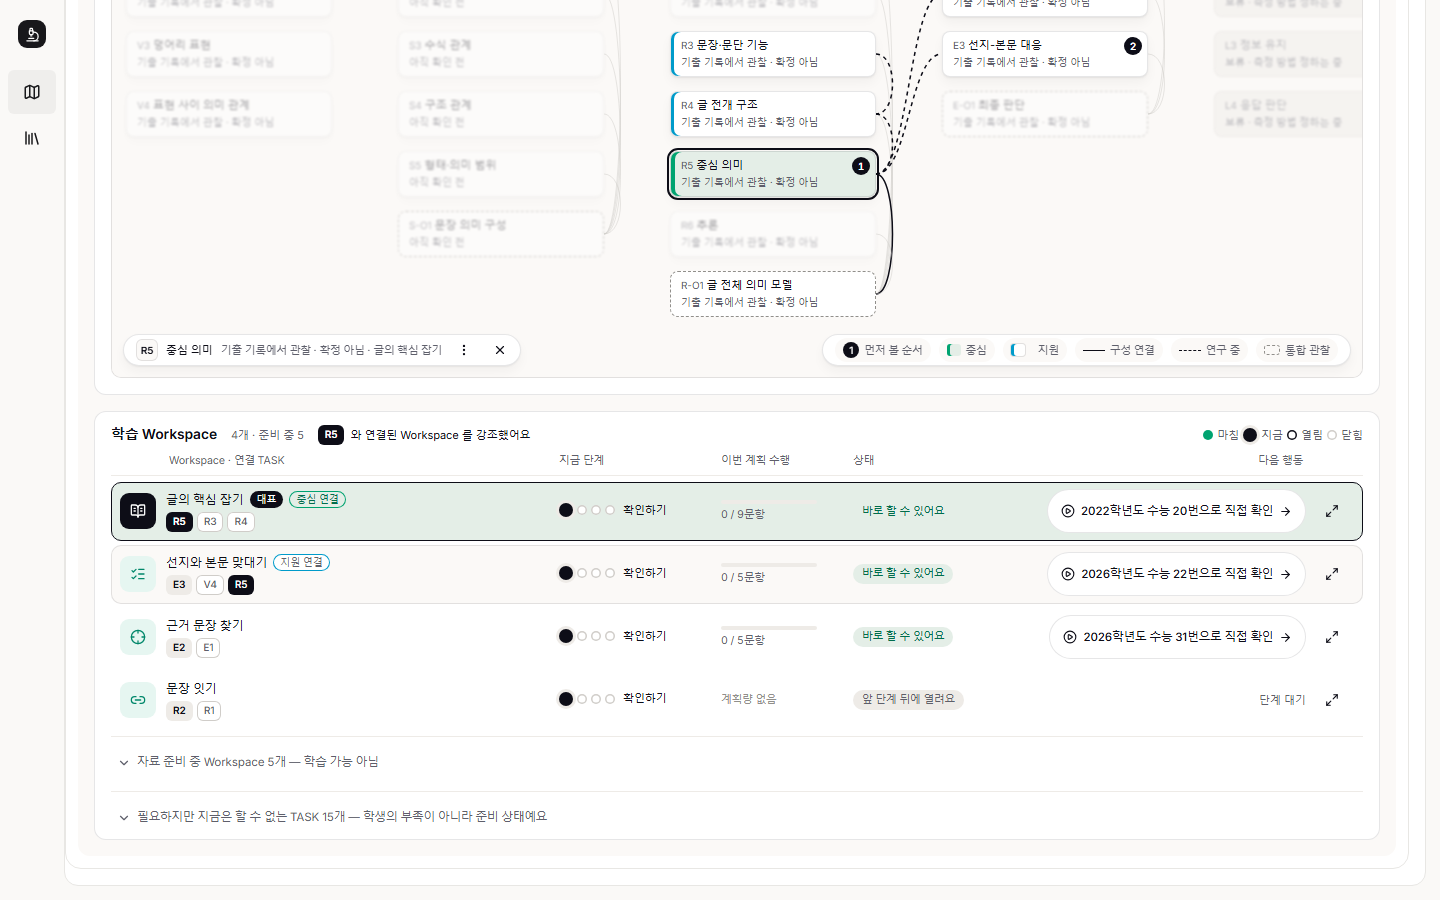
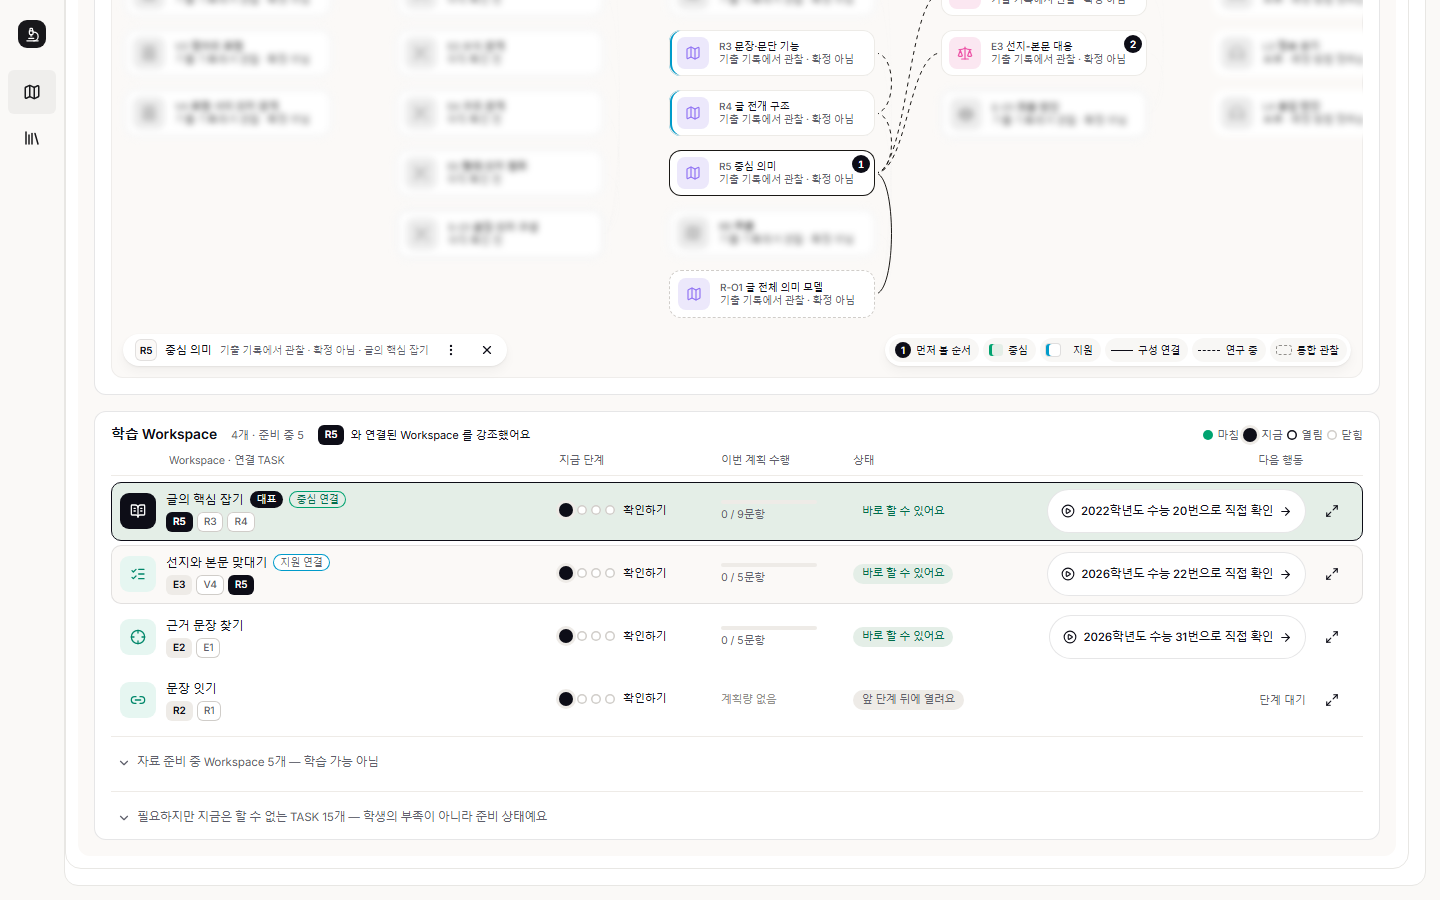
style(map): LM-W1 지도 스킨을 3B Access map 실측 계산 스타일로
- 노드: 흰 면 · 반경 12 · 1px #edebe7 + 3px 링 · 아이콘 타일 32(영역별) · 제목 10/450 · 보조 9/450
- 선택 = 안쪽 1px 잉크 · 흐림 blur(3px) grayscale(1) · 선 1px #edebe7 / 경로 잉크 / 초점 밖 0.1
- 머리 줄 0.5px 선 · 10/350 회색 · 알약 elev 그림자 · 범례 항목 24/38
- 기하 계약 유지(ref-compare 8/8 차이 0) · 통합 36/0 · 복귀 7/7 · 공급 6/6

diff --git a/apps/web/src/components/csat/diagnosis/map/unified.module.css b/apps/web/src/components/csat/diagnosis/map/unified.module.css
@@ -1541,3 +1541,208 @@ p.dockL {
     gap: 8px;
   }
 }
+
+/* ════════ 3B Access map 실측 스킨(2026-10-15 · neon-currant.3b.dev/monitoring/access · 로그인 Chrome 계산 스타일) ════════
+ * 노드: 흰 면 · 반경 12 · 안쪽 1px #edebe7 + 바깥 3px 캔버스 링 · 여백 8 · 간격 10 · 전환 bg .12s / filter·opacity .16s
+ * 타일 32 · 반경 8 · 옅은 색면 + 16px 아이콘 / 제목 10/450 · 보조 9/450 회색(−1%) / 선택 = 안쪽 1px 잉크
+ * 흐림 = blur(3px) grayscale(1) / 선: 평소 1px #edebe7 · 경로 1px 잉크 · 초점 밖 0.1 / 머리 줄 48 · 아래 0.5px 선 · 10/350 회색
+ * 크기 · 피치는 spec.json(--g-*) 그대로 — ref-compare 가 지킨다. 글자 크기는 /csat 하한(--csat-fs-min)이 읽힘을 보장한다. */
+.canvas {
+  border: 0;
+  border-radius: 12px;
+  box-shadow: inset 0 0 0 1px #0d0d170d;
+}
+.inner::before {
+  content: '';
+  position: absolute;
+  left: 0;
+  right: 0;
+  top: 0;
+  height: calc(14px + var(--g-head-h));
+  box-shadow: 0 0.5px 0 #0d0d171a;
+  pointer-events: none;
+}
+.colHead {
+  border-bottom: 0;
+  color: var(--m-ink2);
+}
+.colHead:hover {
+  background: transparent;
+}
+.colHead:hover .colName,
+.colHead:hover .colCode {
+  color: var(--m-ink);
+}
+.colCode {
+  font-size: max(var(--csat-fs-min), calc(10px * var(--csat-fs-scale)));
+  font-weight: 500;
+}
+.colName {
+  font-size: max(var(--csat-fs-min), calc(10px * var(--csat-fs-scale)));
+  font-weight: 350;
+}
+.colTag {
+  font-size: max(var(--csat-fs-min), calc(10px * var(--csat-fs-scale)));
+}
+.node {
+  display: flex;
+  align-items: center;
+  gap: 10px;
+  /* 3B DOM 은 여백 8(48 높이) — spec.json 노드 높이 46 계약에 맞춰 위아래 7 */
+  padding: 7px 8px;
+  border: 0;
+  border-radius: 12px;
+  background: #fff;
+  box-shadow: 0 0 0 3px var(--m-canvas), inset 0 0 0 1px #edebe7;
+  transition: background-color 0.12s, filter 0.16s, opacity 0.16s, transform 0.16s;
+}
+.node:hover {
+  background: #fff;
+  box-shadow: 0 0 0 3px var(--m-canvas), inset 0 0 0 1px #d0cdc9;
+}
+.node[data-selected='true'] {
+  outline: 0;
+  box-shadow: 0 0 0 3px var(--m-canvas), inset 0 0 0 1px #1a1815;
+}
+.node:focus-visible {
+  outline: 2px solid var(--m-ink);
+  outline-offset: 3px;
+}
+.node[data-kind='integrated'] {
+  box-shadow: 0 0 0 3px var(--m-canvas);
+  border: 1px dashed var(--m-g400);
+}
+.node[data-hold='true'] {
+  background: #fff;
+  color: var(--m-ink2);
+}
+.node[data-hold='true'] .nodeTile {
+  background: var(--m-g200);
+  color: var(--m-g600);
+}
+.nodeTile {
+  display: grid;
+  place-items: center;
+  flex: none;
+  width: 32px;
+  height: 32px;
+  border-radius: 8px;
+  background: #e5eee7;
+  color: #41a272;
+}
+.nodeTile[data-domain='S'] {
+  background: #e0f0ed;
+  color: #2f9c8a;
+}
+.nodeTile[data-domain='R'] {
+  background: #ece8fb;
+  color: var(--m-t2);
+}
+.nodeTile[data-domain='E'] {
+  background: #fbe7f1;
+  color: var(--m-t3);
+}
+.nodeTile[data-domain='L'],
+.nodeTile[data-domain='X'] {
+  background: #e3f4fa;
+  color: var(--m-t1);
+}
+.nodeText {
+  display: grid;
+  gap: 1px;
+  min-width: 0;
+  flex: 1;
+}
+.nodeName {
+  display: block;
+  font-size: max(var(--csat-fs-min), calc(10px * var(--csat-fs-scale)));
+  font-weight: 450;
+  line-height: 1.2;
+  color: var(--m-ink);
+  white-space: nowrap;
+  overflow: hidden;
+  text-overflow: ellipsis;
+  -webkit-line-clamp: unset;
+}
+.nodeCode {
+  font-size: max(var(--csat-fs-min), calc(9px * var(--csat-fs-scale)));
+  font-weight: 500;
+  color: var(--m-ink2);
+}
+.nodeState {
+  font-size: max(var(--csat-fs-min), calc(9px * var(--csat-fs-scale)));
+  font-weight: 450;
+  line-height: 1.3;
+  letter-spacing: -0.01em;
+  color: var(--m-ink2);
+  white-space: nowrap;
+  overflow: hidden;
+  text-overflow: ellipsis;
+}
+/* 좁은 개요 열(이름만) — 3B 와 같은 카드 · 두 줄까지 */
+.col[data-wide='false'] .nodeName {
+  white-space: normal;
+  display: -webkit-box;
+  -webkit-line-clamp: 2;
+  -webkit-box-orient: vertical;
+}
+.node[data-faded='true'] {
+  opacity: 1;
+  filter: blur(3px) grayscale(1);
+}
+.node[data-faded='true']:hover,
+.node[data-faded='true']:focus-visible {
+  filter: none;
+}
+/* 고른 Workspace 의 중심 · 지원(3B 에 없는 Vocaflow 표시) — 타일 옆 얇은 띠로만 */
+.node[data-link='core'] {
+  background: #fff;
+  box-shadow: 0 0 0 3px var(--m-canvas), inset 0 0 0 1px #edebe7, inset 3px 0 0 var(--m-met);
+}
+.node[data-link='support'] {
+  box-shadow: 0 0 0 3px var(--m-canvas), inset 0 0 0 1px #edebe7, inset 3px 0 0 var(--m-t1);
+}
+.node[data-selected='true'][data-link='core'],
+.node[data-selected='true'][data-link='support'] {
+  box-shadow: 0 0 0 3px var(--m-canvas), inset 0 0 0 1px #1a1815;
+}
+.line {
+  stroke: #edebe7;
+  stroke-width: 1;
+  opacity: 1;
+}
+.line[data-active='true'] {
+  stroke: #1a1815;
+  stroke-width: 1;
+}
+.canvas[data-lit='true'] .line:not([data-active='true']) {
+  opacity: 0.1;
+}
+/* 떠 있는 알약 — 3B 실측(높이 32 · 9999 · 흰 면 · elev 그림자 · 안내 글 10/350 · 범례 항목 24 · 반경 38) */
+.dockL,
+.dockR {
+  border: 0;
+  box-shadow: var(--m-elev);
+  font-size: max(var(--csat-fs-min), calc(10px * var(--csat-fs-scale)));
+  font-weight: 350;
+}
+p.dockL {
+  padding: 0 10px;
+}
+.dockR {
+  gap: 4px;
+  padding: 0 4px;
+}
+.lgItem {
+  height: 24px;
+  padding: 0 8px 0 6px;
+  border-radius: 38px;
+  background: #4f33070a;
+  color: var(--m-ink);
+  font-weight: 450;
+}
+@media (prefers-reduced-motion: reduce) {
+  .node {
+    transition: none;
+  }
+}

diff --git a/apps/web/src/components/csat/diagnosis/map/UnifiedLearningMap.tsx b/apps/web/src/components/csat/diagnosis/map/UnifiedLearningMap.tsx
@@ -27,7 +27,10 @@ import { ranksOf } from '@/lib/csat/map/v62/rank'
 import { RETURN_NOTE_LABEL, returnNotes } from '@/lib/csat/map/v62/return-ctx'
 import { taskForWs, workspaceRows, wsForTask, wsLinkOf, type WsLink } from '@/lib/csat/map/v62/workspace-list'
 
+import type { CoreCode } from '@/lib/csat/map/core'
+
 import { useGoal } from './GoalBar'
+import { AXIS_ICON } from './icons'
 import { GoalRecordBar } from './GoalRecordBar'
 import { MapDialog } from './MapDialog'
 import { EVIDENCE_V62_LABEL, NEED_V62_LABEL, TaskInspector } from './TaskInspector'
@@ -439,6 +442,7 @@ export function UnifiedLearningMap({ data, mode, recordHref, asOf, restore = nul
 }
 
 function Node({ t, wide, selected, order, link, faded, dim, need, evidence, onClick }: { t: GraphTask; wide: boolean; selected: boolean; order: number | null; link: WsLink | null; faded: boolean; dim: boolean; need: string | null; evidence: string; onClick: () => void }) {
+  const Icon = AXIS_ICON[t.domain as CoreCode]
   return (
     <button
       type="button"
@@ -458,9 +462,13 @@ function Node({ t, wide, selected, order, link, faded, dim, need, evidence, onCl
       aria-label={`${t.display} ${t.name} — ${evidence}${need ? ` · ${NEED_V62_LABEL[need as keyof typeof NEED_V62_LABEL] ?? ''}` : ''}${order ? ` · 먼저 볼 순서 ${order}` : ''}${link ? ` · 고른 Workspace 의 ${link === 'core' ? '중심' : '지원'} TASK` : ''} · ${selected ? '다시 누르면 자세히 · Esc 초점 해제' : '누르면 초점 · 다시 누르면 자세히'}`}
       onClick={onClick}
     >
-      <span className={u.nodeName}>
-        <span className={u.nodeCode}>{t.display}</span>{' '}{t.name.replace(/\(통합 관찰\)$/, '')}</span>
-      {wide && <span className={u.nodeState}>{t.hold ? '보류 · 측정 방법 정하는 중' : evidence}</span>}
+      {/* 3B Access map 노드 — 아이콘 타일(영역) + 이름 한 줄 + 보조 한 줄. 좁은 개요 열에서는 타일 · 보조 줄 없이 이름만 */}
+      {wide && <span className={u.nodeTile} data-domain={t.domain} aria-hidden="true"><Icon size={16} strokeWidth={1.8} /></span>}
+      <span className={u.nodeText}>
+        <span className={u.nodeName}>
+          <span className={u.nodeCode}>{t.display}</span>{' '}{t.name.replace(/\(통합 관찰\)$/, '')}</span>
+        {wide && <span className={u.nodeState}>{t.hold ? '보류 · 측정 방법 정하는 중' : evidence}</span>}
+      </span>
       {order !== null && <span className={u.nodeOrder} aria-hidden="true">{order}</span>}
       {selected && <span className={u.nodeMore} data-testid="node-more" aria-hidden="true"><MoreVertical size={12} /></span>}
     </button>

diff --git a/docs/csat-learner/v62/LM-W1_MAP_WORKSPACE.md b/docs/csat-learner/v62/LM-W1_MAP_WORKSPACE.md
@@ -30,6 +30,8 @@
 | 모달: 가운데 · 머리(타일 + 이름 + 알약 탭 + ✕) · 옅은 카드 · 바닥 오른쪽 검은 알약 | Workspace 상세 모달(「개요 / 학습계획」 탭 · 「상세 PLAN 열기」 흰 알약 + 「학습 실행」 검은 알약) |
 | 워크플로 상세: 왼쪽 대화 레일 + 오른쪽 탭 판 + 바닥 색 카드 4(단계) | (참고만 — 지도 화면에는 쓰지 않음) |
 
+**노드 · 머리 줄 · 선 스킨(계산 스타일 실측 — DOM 값)**: 노드 흰 면 · 반경 12 · 안쪽 1px `#edebe7` + 바깥 3px 캔버스 링 · 아이콘 타일 32(반경 8 · 영역별 옅은 색면 + 16px 아이콘) · 제목 10/450 · 보조 9/450 회색 · 선택 = 안쪽 1px 잉크 · 흐림 `blur(3px) grayscale(1)` · 선 평소 1px `#edebe7` · 경로 1px 잉크 · 초점 밖 0.1 · 머리 줄 아래 0.5px 선 · 머리 글자 10/350 회색 · 범례 항목 24 · 반경 38. 3B 노드 DOM 높이는 48(여백 8)이지만 기하 계약(spec 46)을 지키려고 위아래 여백 7. 글자 크기는 /csat 하한(`--csat-fs-min`)이 한글 가독성을 위해 끌어올린다(의도된 차이). 원자료 `D:/refs/3b/survey/accessmap-style*.json`(저장소 밖).
+
 **처음 구현과 달라진 점(조사 뒤 고침)**: 처음 버전은 ① 처음부터 대표 Workspace 를 골라 지도 대부분을 흐리게 했고 ② 노드를 누르면 바로 팝업을 띄웠고 ③ 범례가 캔버스 밖 글 한 줄이었다 — 셋 다 3B 실제 동작과 달라 고쳤다.
 **남은 의도된 차이**: ① 3B 에 없는 Vocaflow 구조 — 목표 띠 · Workspace 리스트 · 빠른 팝업(⋮ 의 「동작 메뉴」 대신 TASK 근거 · 연결 Workspace · 다음 행동) · 근거 드로어. ② 흐림 정도는 3B 보다 약하다(관련 없는 TASK 도 읽을 수 있어야 함 — 학습 지도는 다른 TASK 로 옮겨 가는 화면). ③ 1280 · 1440 개요는 고르지 않은 영역 열을 압축(P-M4b 와 같음). ④ PLAN 탭도 모달 폭 680.
 
